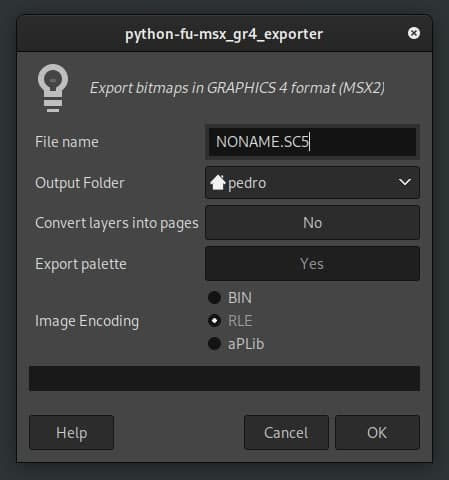
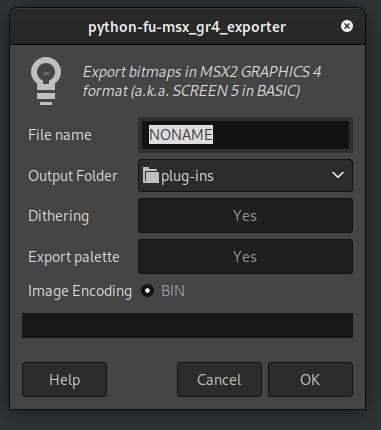
RGB version

Changed region(s): [[0.0, 0.0302, 0.9816, 0.9674]]

diff --git a/gimpfu_msx_g4.py b/gimpfu_msx_g4.py
@@ -14,6 +14,7 @@ import gimpfu
 import gimp
 import os
 import struct
+from math import sqrt
 
 BIN_PREFIX = 0xFE
 DEFAULT_FILENAME = 'NONAME'
@@ -25,8 +26,15 @@ MAX_WIDTH = 256
 MAX_HEIGHT = 212
 MAX_PAGES = 4
 PALETTE_OFFSET = 0x7680
+FIXED_DITHERING = 3
 
-def write_gr4(img, layer, filename, folder, black0, exp_pal, image_enc):
+PLUGIN_MSG = """Export bitmaps in MSX2 GRAPHICS 4 format (a.k.a. SCREEN 5 in BASIC)"""
+
+tuple_key = lambda pair: pair[0]
+tuple_value = lambda pair: pair[1]
+
+
+def write_gr4(image, layer, filename, folder, dithering, exp_pal, image_enc):
     '''
     Export image to GRAPHICS 4, a.k.a. SCREEN 5 (MSX2).
     
@@ -34,14 +42,13 @@ def write_gr4(img, layer, filename, folder, black0, exp_pal, image_enc):
     @param layer: gimp layer (or drawable)
     @param filename: file name
     @param folder: output directory
-    @param black0: force black as color 0
+    @param dithering: whether dithering is active
     @param exp_pal: export palette data too
     @param image_enc: output encoding
     '''
     
     errors = []
-    drawable = gimpfu.pdb.gimp_image_active_drawable(img)
-
+    drawable = gimpfu.pdb.gimp_image_active_drawable(image)
     width, height = gimpfu.pdb.gimp_drawable_width(drawable), gimpfu.pdb.gimp_drawable_height(drawable)
 
     if width != MAX_WIDTH:
@@ -57,52 +64,51 @@ def write_gr4(img, layer, filename, folder, black0, exp_pal, image_enc):
         gimp.message("\n".join(errors))
         return
 
-    # Saving palette
-    cfq, crep = reduce_colors(img)
+    buffer = [0] * (MAX_WIDTH // 2) * MAX_HEIGHT
 
-    if len(cfq) > MAX_COLORS:
-        errors.append('Image must not have more than 16 colors.')
-
-    gimpfu.pdb.gimp_progress_init('Converting to %i colors...' % len(cfq), None)
-    gimpfu.pdb.gimp_progress_update(0)
-
-    palette = [0] * (2 * MAX_COLORS)
-
-    for color, index in cfq.items():
-        r, g, b = color
-        palette[index * 2] = 16 * r + b
-        palette[index * 2 + 1] = g
-        print("palette[%i] = (%i, %i, %i)" % (index, r, g, b))
+    # Create temporary image
+    new_image = gimpfu.pdb.gimp_image_duplicate(image)
+    histogram = create_histogram(new_image)
+    palette = quantize_colors(histogram, MAX_COLORS)
+    drawable = reduce_colors(image, palette, dithering)
 
     if exp_pal:
-        encoded = struct.pack('<BHHH{}B'.format(len(palette)), BIN_PREFIX, PALETTE_OFFSET,
-                PALETTE_OFFSET + len(palette), 0, *palette[0:len(palette)])
+        pal9bits = [0] * (2 * MAX_COLORS)
+
+        for color, index in palette:
+            r, g, b = color
+            pal9bits[index * 2] = 16 * r + b
+            pal9bits[index * 2 + 1] = g
+
+        encoded = struct.pack('<BHHH{}B'.format(len(pal9bits)), BIN_PREFIX, PALETTE_OFFSET,
+                PALETTE_OFFSET + len(pal9bits), 0, *pal9bits[0:len(pal9bits)])
         file = open(os.path.join(folder, '%s.PAL' % filename), "wb")
         file.write(encoded)
         file.close()
 
-    pixels = [0] * (MAX_WIDTH // 2) * MAX_HEIGHT
+    gimpfu.pdb.gimp_progress_init('Exporting image to %s format...' % image_enc, None)
+    gimpfu.pdb.gimp_progress_update(0)
+
+    buffer = [0] * (MAX_WIDTH // 2) * MAX_HEIGHT
     step = 1.0 / height
     percent = 0.0
-    printed = {}
+    palette = {k:v for k, v in palette}
 
     for y in range(0, height):
         for x in range(0, width):
-            _, (indexed,) = gimpfu.pdb.gimp_drawable_get_pixel(drawable, x, y)
-
-            if printed.get(indexed) == None:
-                print("* replaced %i by %i" % (indexed, crep[indexed]))
-                printed[indexed] = True
-
-            indexed = crep[indexed]
+            _, (color) = gimpfu.pdb.gimp_drawable_get_pixel(drawable, x, y)
+            indexed = palette[color]
             pos = x // 2 + y * 128
-            pixels[pos] |= indexed if x % 2 else indexed << 4;
+            buffer[pos] |= indexed if x % 2 else indexed << 4;
 
         percent += step
         gimpfu.pdb.gimp_progress_update(percent)
 
+    # Discard temporary image
+    gimpfu.pdb.gimp_image_delete(new_image)
+
     if image_enc == 'bin':
-        encoded = struct.pack('<BHHH{}B'.format(len(pixels)), BIN_PREFIX, 0, len(pixels), 0, *pixels)
+        encoded = struct.pack('<BHHH{}B'.format(len(buffer)), BIN_PREFIX, 0, len(buffer), 0, *buffer)
     else:
         return
 
@@ -111,40 +117,136 @@ def write_gr4(img, layer, filename, folder, black0, exp_pal, image_enc):
     file.close()
 
 
-def reduce_colors(img):
-    num_bytes, cmap = gimpfu.pdb.gimp_image_get_cmap(img)
-    cfq = {}
-    crep = {}
+def create_histogram(image):
+    drawable = gimpfu.pdb.gimp_image_active_drawable(image)
+    width, height = gimpfu.pdb.gimp_drawable_width(drawable), gimpfu.pdb.gimp_drawable_height(drawable)
+    histogram = {}
 
-    for i in range(0, num_bytes, 3):
-        print("%i: checking color %i..." % (i, i // 3))
-        r = round(float(cmap[i]) / 0xff * 7) # // 32
-        g = round(float(cmap[i + 1]) / 0xff * 7) # // 32
-        b = round(float(cmap[i + 2]) / 0xff * 7) # // 32
+    percent = 0.0
+    step = 1.0 / height
 
-        if cfq.get((r, g, b)) == None:
-            cfq[(r, g, b)] = len(cfq)
+    gimpfu.pdb.gimp_progress_init('Creating histogram...', None)
+    gimpfu.pdb.gimp_progress_update(0)
 
-        crep[i // 3] = cfq[(r, g, b)]
-        print("* replacing index %i (#%02x%02x%02x) by %i (#%x%x%x)" % (i // 3, cmap[i], cmap[i + 1],
-            cmap[i + 2], cfq[(r, g, b)], r, g, b))
+    for y in range(height):
 
-    return cfq, crep
+        for x in range(width):
+            _, (r, g, b) = gimpfu.pdb.gimp_drawable_get_pixel(drawable, x, y)
+            r = round(float(r) / 0xff * 7)
+            g = round(float(g) / 0xff * 7)
+            b = round(float(b) / 0xff * 7)
+            histogram[(r, g, b)] = histogram.get((r, g, b), 0) + 1
+
+        percent += step
+        gimpfu.pdb.gimp_progress_update(percent)
+
+    return histogram.items()
+
+
+def distance(src, dst):
+    r1, g1, b1 = src
+    r2, g2, b2 = dst
+
+    return sqrt(
+        (r1 - r2) ** 2 + (g1 - g2) ** 2 + (b1 - b2) ** 2
+    )
+
+
+def quantize_colors(histogram, length):
+    palette = []
+
+    gimpfu.pdb.gimp_progress_init('Quantizing colors...', None)
+    gimpfu.pdb.gimp_progress_update(0.0)
+
+    percent = 0.0
+    step = float(len(histogram) - length) / 100
+
+    while len(histogram) > length:
+        # Order by number of pixels of the same color
+        histogram.sort(key=tuple_value)
+
+        color1, freq = histogram.pop(0)
+        distances = [
+            (idx, distance(color1, color2)) for idx, (color2, _) in enumerate(histogram[1:], start=1)
+        ]
+
+        index, _ = min(distances, key=tuple_value)
+        # add first least frequent item into nearest element
+        histogram[index] = (histogram[index][0], histogram[index][1] + freq)
+
+        percent += step
+        gimpfu.pdb.gimp_progress_update(percent)
+
+    for index, (color, _) in enumerate(sorted(histogram, key=tuple_key)):
+        palette.append((color, index))
+
+    return palette
+
+
+def scatter_noise(drawable, x, y, error):
+    NEIGHBORS = ( (+1, 0, 7.0/16), (-1, +1, 3.0/16), (-1, +1, 5.0/16), (+1, +1, 1.0/16) )
+
+    for offset_x, offset_y, debt in NEIGHBORS:
+        try:
+            off_x, off_y = x + offset_x, y + offset_y
+
+            if off_x < 0 or off_y < 0:
+                continue
+
+            nchannels, pixel = gimpfu.pdb.gimp_drawable_get_pixel(drawable, off_x, off_y)
+            npixel = tuple(min(255, color + error * debt) for color, error in zip(pixel, error))
+            gimpfu.pdb.gimp_drawable_set_pixel(drawable, off_x, off_y, nchannels, npixel)
+
+        except Exception:
+            pass # hey, gimp developers, Python 2.7 sucks!
+
+
+def reduce_colors(image, palette, dithering=True):
+    def nearest_index(pixel):
+        return min([(idx, distance(pixel, color)) for color, idx in palette], key=tuple_value)[0]
+ 
+    drawable = gimpfu.pdb.gimp_image_active_drawable(image)
+    width, height = gimpfu.pdb.gimp_drawable_width(drawable), gimpfu.pdb.gimp_drawable_height(drawable)
+ 
+    gimpfu.pdb.gimp_progress_init('Downsampling...', None)
+    gimpfu.pdb.gimp_progress_update(0.0)
+
+    percent = 0.0
+    step = 1.0 / height
+
+    for y in range(height):
+        for x in range(width):
+            nchannels, (r1, g1, b1) = gimpfu.pdb.gimp_drawable_get_pixel(drawable, x, y)
+            r2 = r1 & 0xe0; nr = round(float(r1) / 0xff * 7)
+            g2 = g1 & 0xe0; ng = round(float(g1) / 0xff * 7)
+            b2 = b1 & 0xe0; nb = round(float(b1) / 0xff * 7)
+            index = nearest_index((nr, ng, nb))
+            gimpfu.pdb.gimp_drawable_set_pixel(drawable, x, y, nchannels, palette[index][0])
+
+            if dithering:
+                error = [old - new for old, new in zip((r1, g1, b1), (r2, g2, b2))]
+                scatter_noise(drawable, x, y, error)
+
+        percent += step
+        gimpfu.pdb.gimp_progress_update(percent)
+
+    return drawable
+
+
 
 
 gimpfu.register("msx_gr4_exporter",
-                "Export bitmaps in GRAPHICS 4 format (MSX2)", 
+                PLUGIN_MSG,
                 "Export MSX-compatible image", 
                 "Pedro de Medeiros", "Pedro de Medeiros", "2021", 
                 "<Image>/Filters/MSX/Export GRAPHICS 4 bitmap...", 
-                "INDEXED", [
+                "RGB*", [
                     (gimpfu.PF_STRING, "filename", "File name", DEFAULT_FILENAME),
                     (gimpfu.PF_DIRNAME, "folder", "Output Folder", DEFAULT_OUTPUT_DIR),
-                    #(gimpfu.PF_BOOL, "layers2pages", "Convert layers into pages", False),
-                    (gimpfu.PF_BOOL, "force_0_black", "Force black as color 0", False),
-                    (gimpfu.PF_BOOL, "exp_pal", "Export palette", True),
-                    (gimpfu.PF_RADIO, "image-enc", "Image Encoding", DEFAULT_OUTPUT_FMT, (("BIN", "bin"),
-                        ("RLE", "rle"), ("aPLib", "aplib"))),
+                    (gimpfu.PF_BOOL, "dithering", "Dithering", True),
+                    #(gimpfu.PF_BOOL, "force-0black", "Force black as color 0", False),
+                    (gimpfu.PF_BOOL, "exp-pal", "Export palette", True),
+                    (gimpfu.PF_RADIO, "image-enc", "Image Encoding", DEFAULT_OUTPUT_FMT, (("BIN", "bin"),))
                 ], 
                 [], 
                 write_gr4)

diff --git a/README.md b/README.md
@@ -9,6 +9,10 @@ GIMP script to export bitmap as GRAPHICS 4 file (a.k.a. "SCREEN 5"). GRAPHICS 4 
 * 4 pages;
 * sprite mode 2;
 
+## Sample image
+
+![Sample image](images/sample.jpg "Sample image")
+
 ## Installation: 
 - Put this file into your GIMP plugin directory, i.e. `~/.var/app/org.gimp.GIMP/config/GIMP/2.10/plug-ins/gimpfu_msx_g4.py`
 - Restart GIMP
@@ -29,8 +33,10 @@ First file (NONAME.SC5) is the pattern data and second (NONAME.PAL) is the palet
 
 ## TODO
 
+* ordered dithering;
 * make it faster;
-* ~~palette export~~;
+* ~~palette export;~~
+* ~~RGB to indexed conversion;~~
 * RLE encoding;
 * aPLib compression;
 * converting layers into pages;
